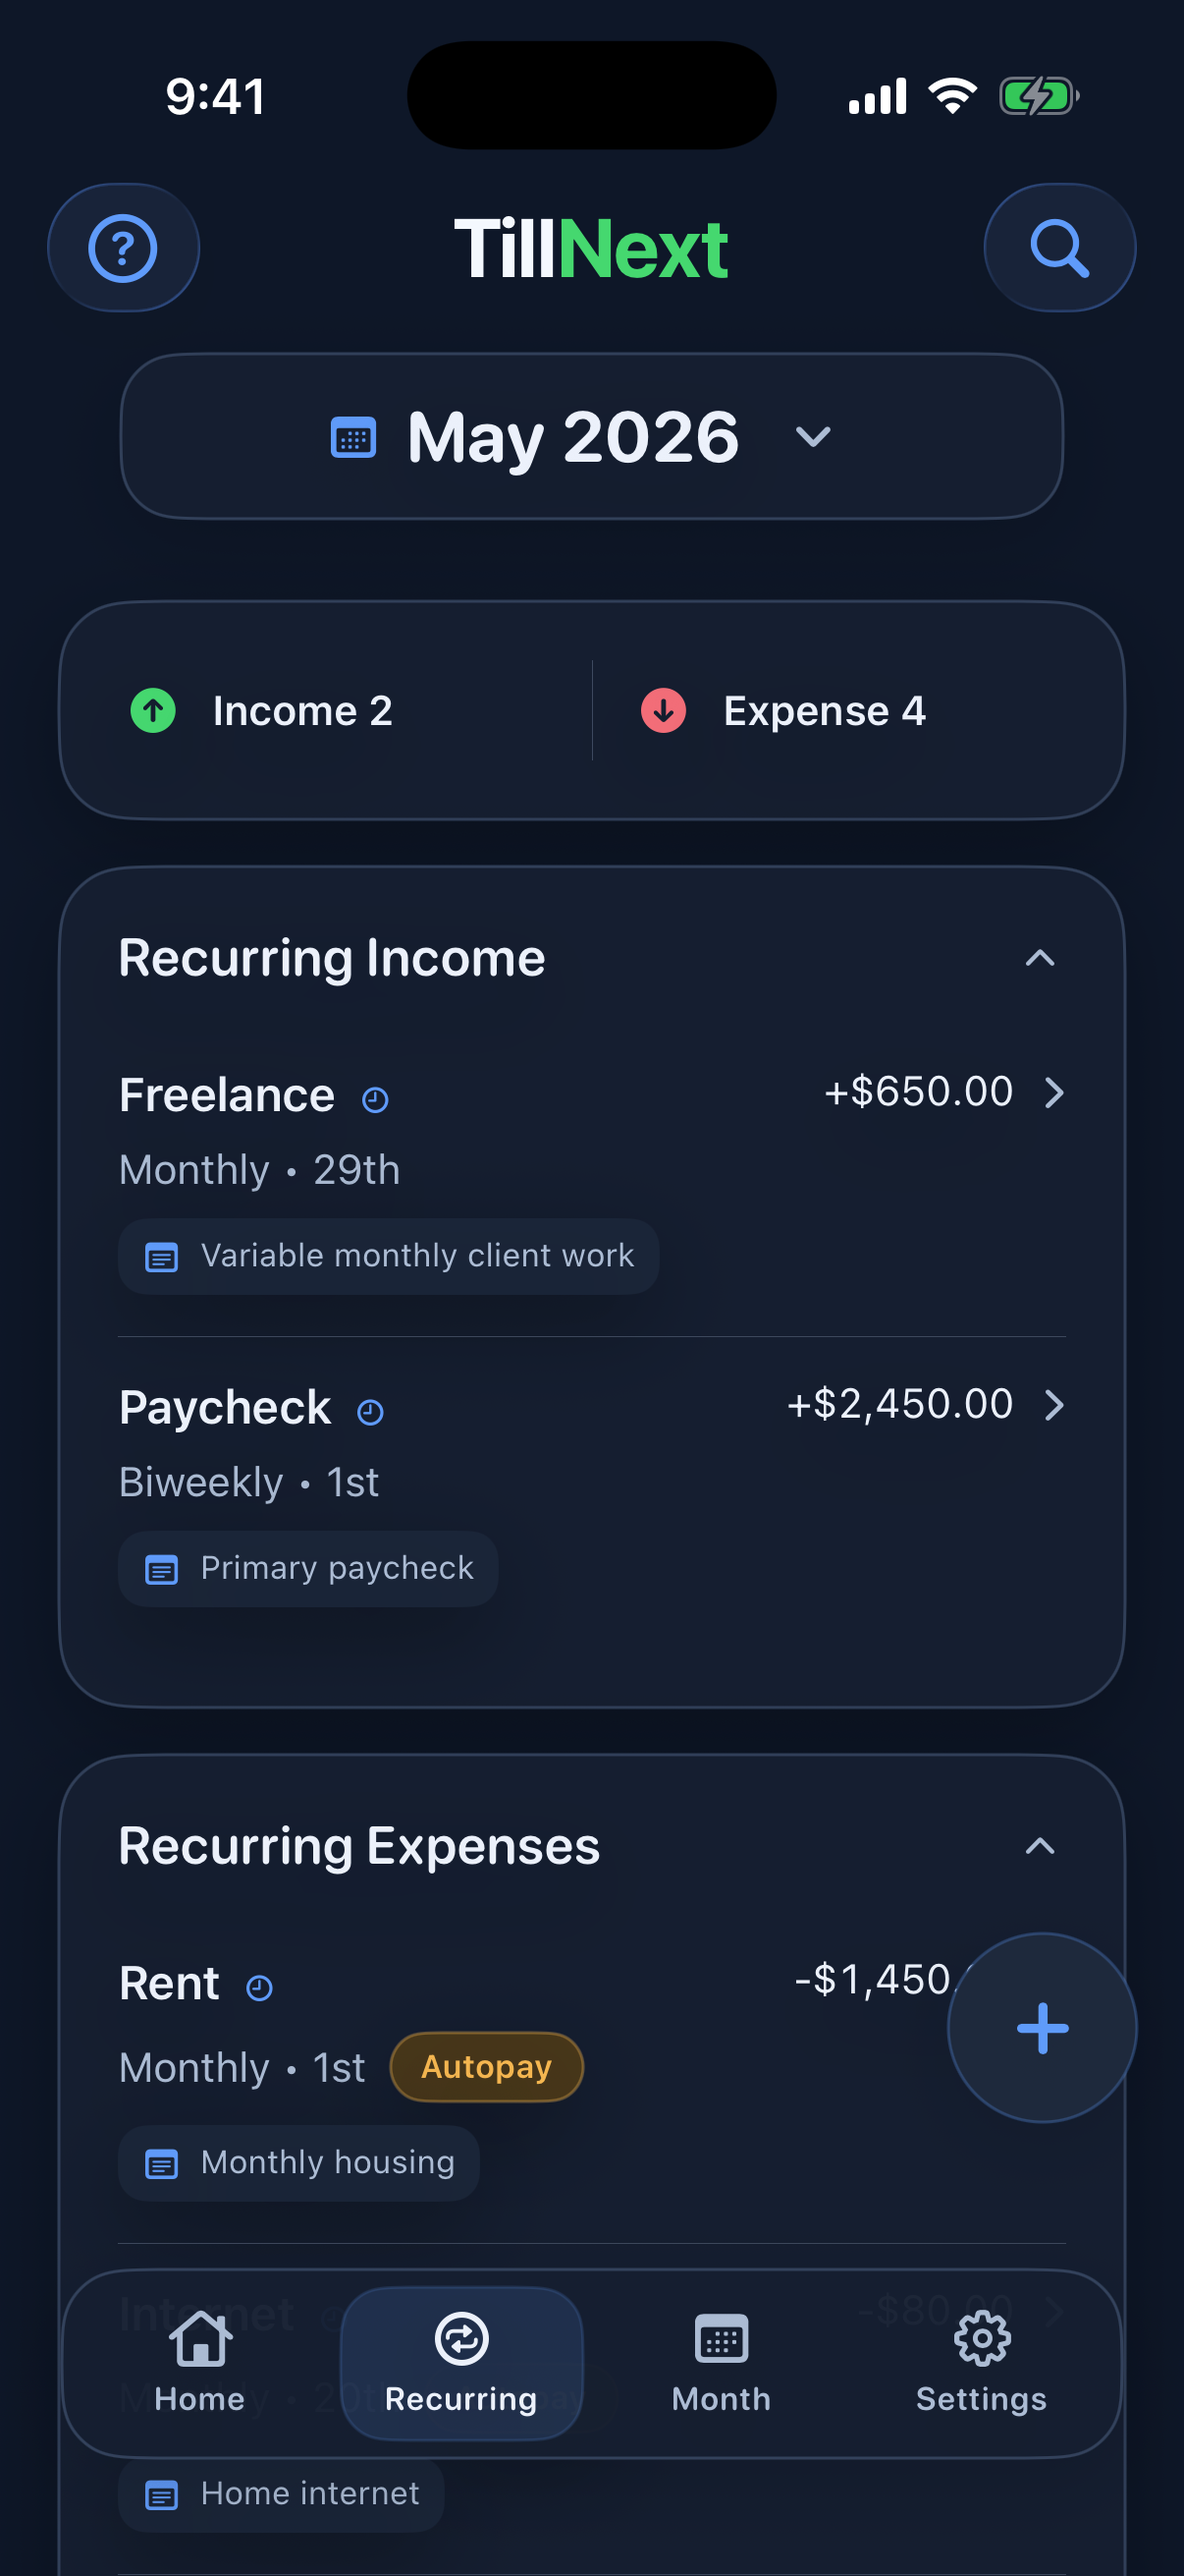
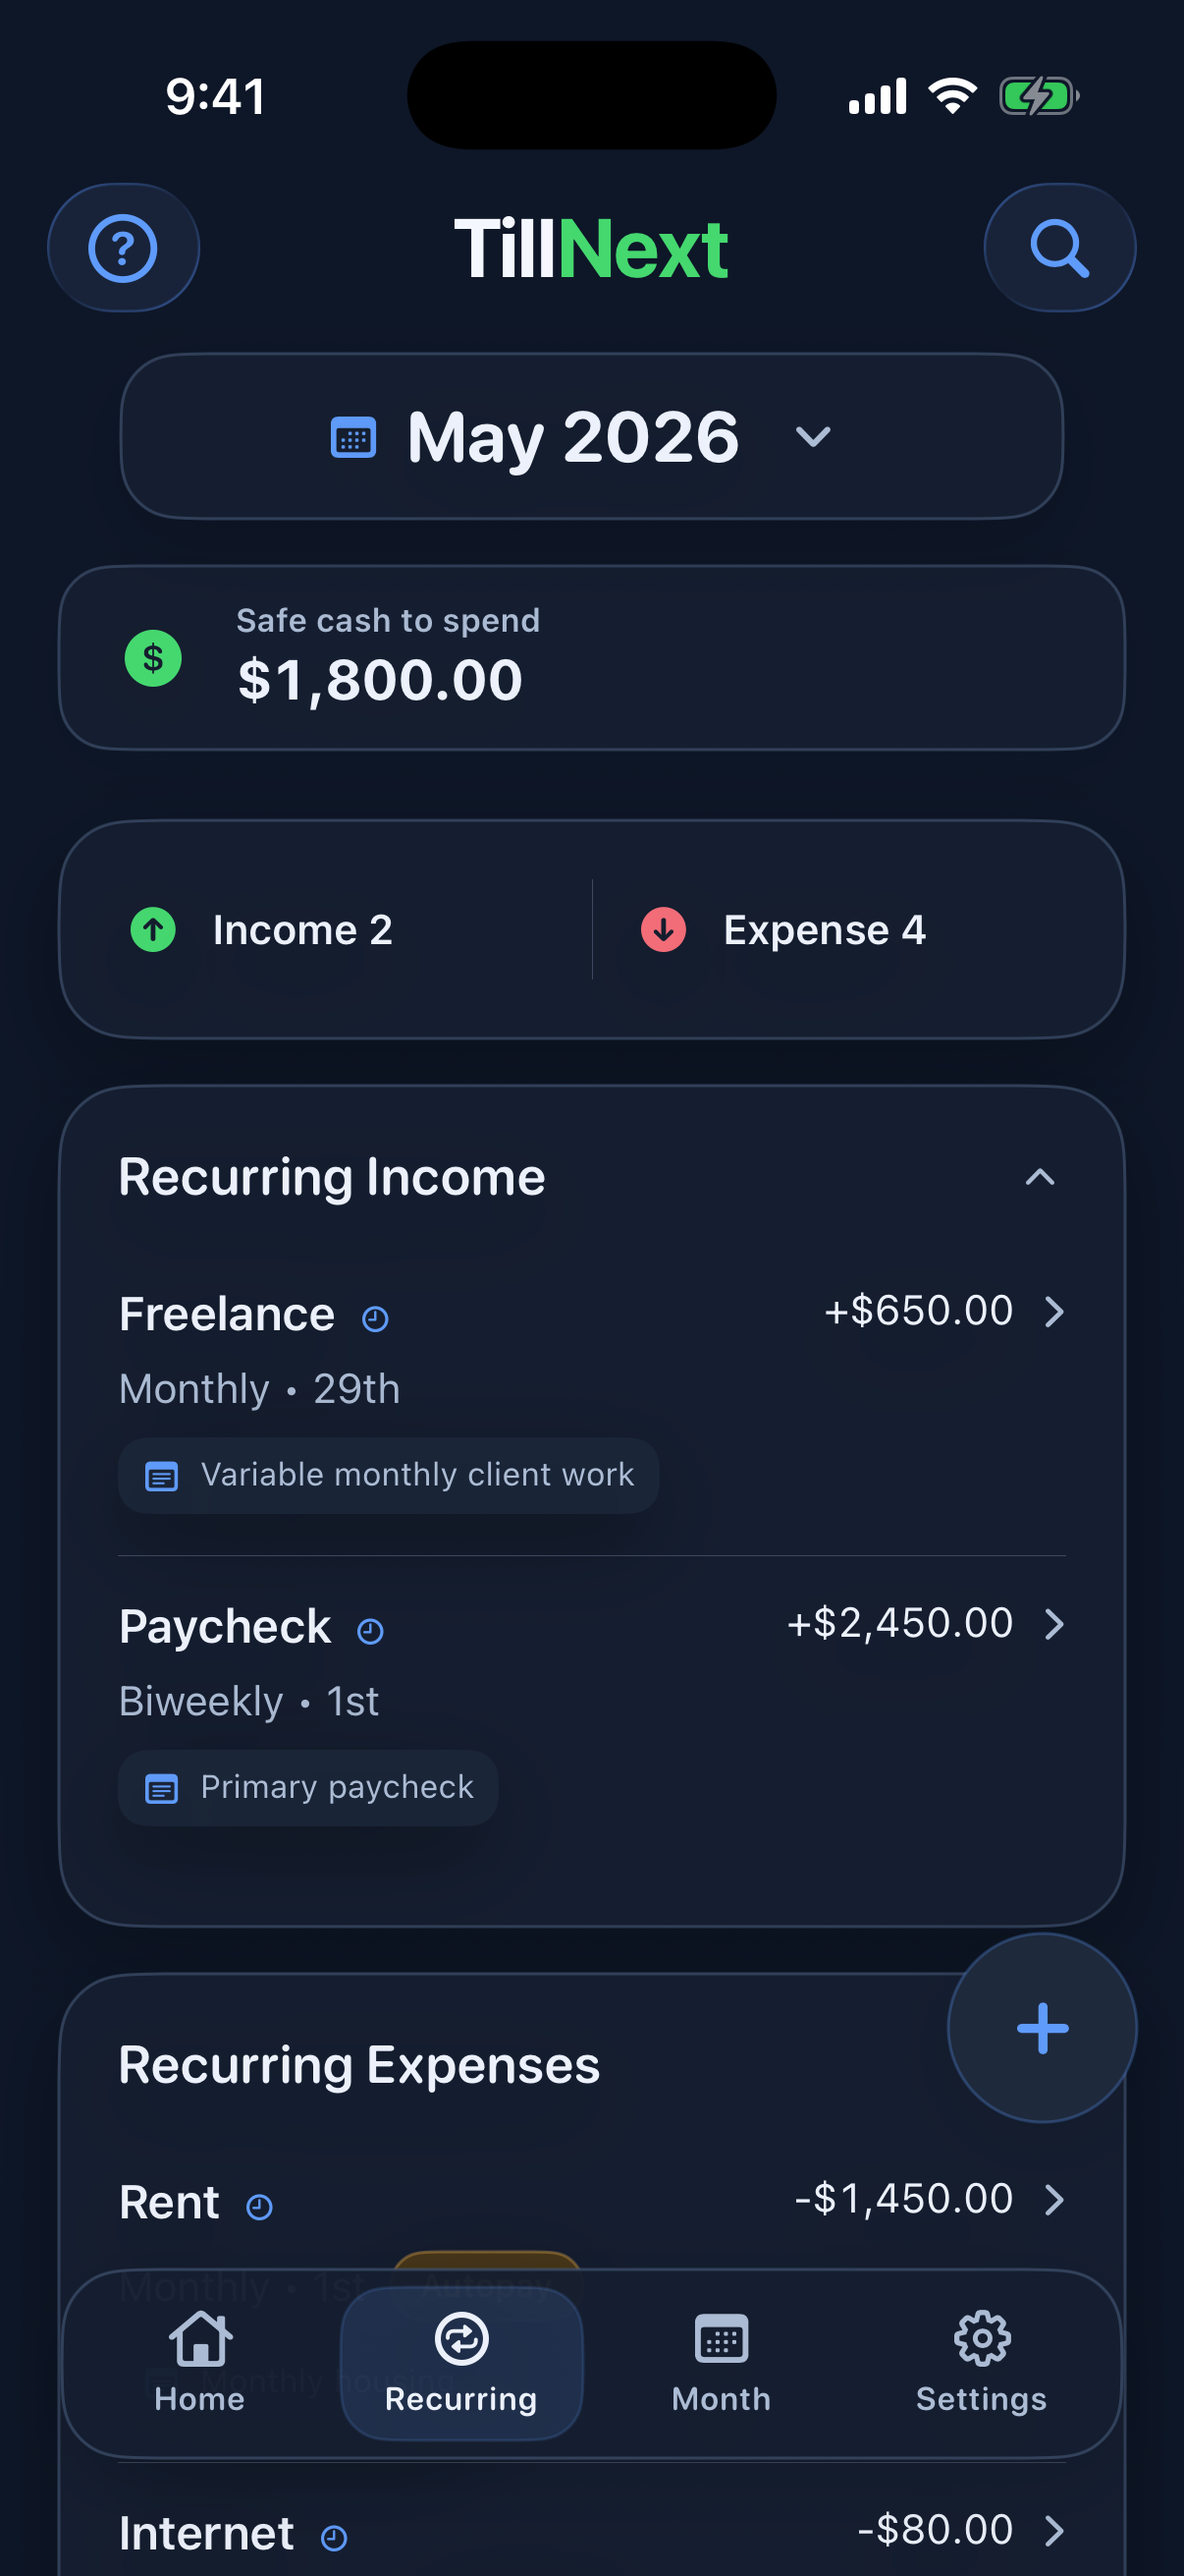
Update sticky safe cash release notes

diff --git a/changelog/index.html b/changelog/index.html
@@ -5,7 +5,7 @@
     <meta name="viewport" content="width=device-width, initial-scale=1">
     <title>TillNext: Paycheck Planner Changelog</title>
     <meta name="description" content="Public changelog for TillNext: Paycheck Planner.">
-    <link rel="stylesheet" href="../styles.css?v=20260512-build312">
+    <link rel="stylesheet" href="../styles.css?v=20260513-build313">
   </head>
   <body>
     <main>
@@ -20,7 +20,13 @@
       <p>Public notes for meaningful TillNext changes. This page focuses on user-facing updates, privacy posture, and support information.</p>
 
       <h2>Version 1.1.2, Pre-Launch</h2>
-      <p><strong>Updated:</strong> May 12, 2026</p>
+      <p><strong>Updated:</strong> May 13, 2026</p>
+      <h3>May 13, 2026</h3>
+      <ul>
+        <li>Prepared build 313 for pre-launch testing.</li>
+        <li>Improved Sticky safe cash so the compact Safe cash display replaces the large Home card and stays visible on Home, Recurring, and Month.</li>
+      </ul>
+
       <h3>May 12, 2026</h3>
       <ul>
         <li>Prepared build 312 for pre-launch testing.</li>
